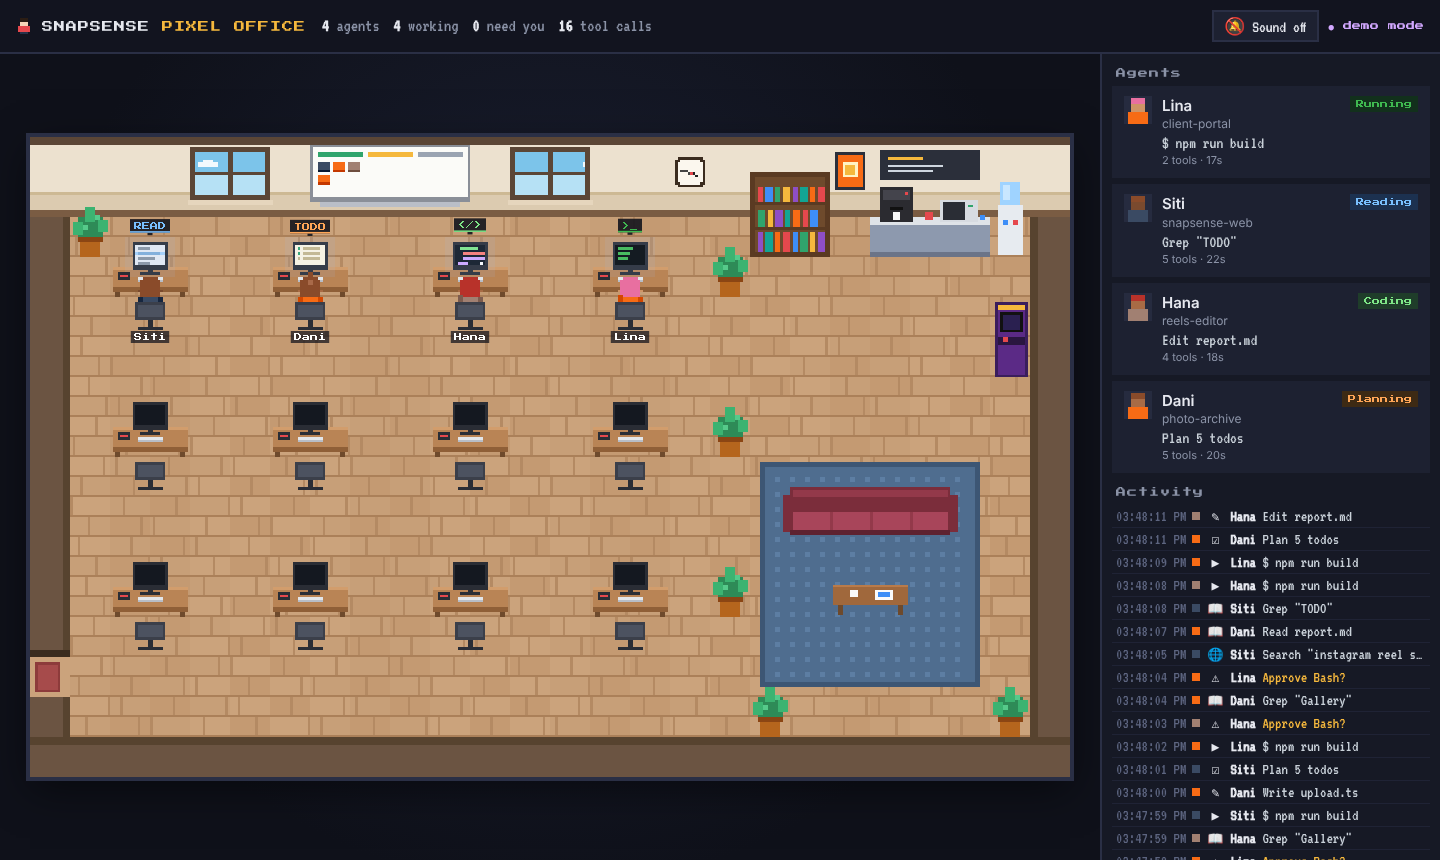
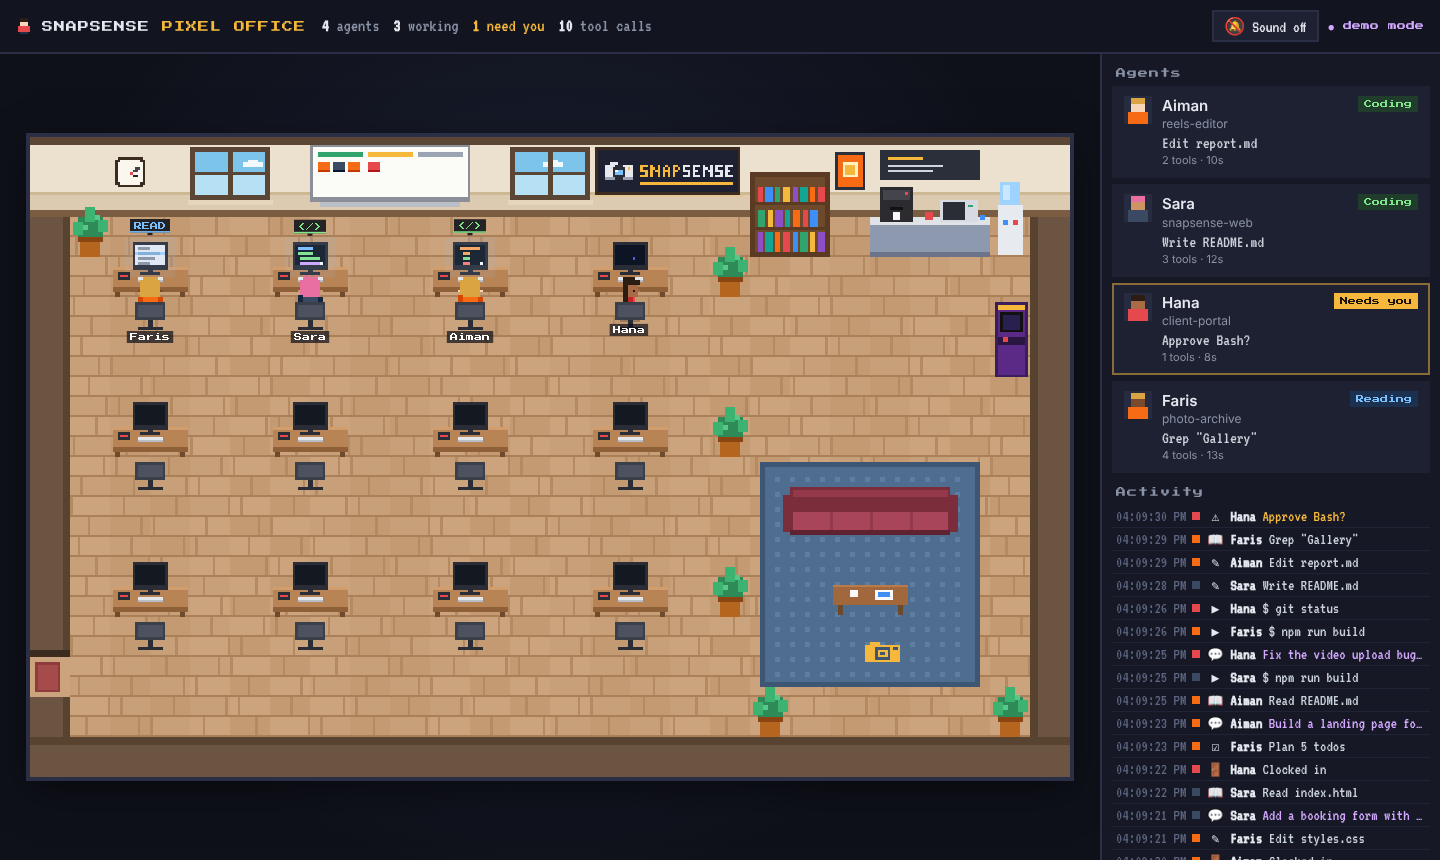
Add SnapSense brand sign to the pixel office
A backlit pixel wall sign with a camera icon (its flash fires every few
seconds) and a camera emblem on the lounge rug. Dropping public/logo.png
replaces the built-in sign; the server reports the logo in the snapshot
and /api/state so the client never requests a missing file.

Claude-Session: https://claude.ai/code/session_01QVWsLVmBcaAnQnZhByugNu

diff --git a/public/world.js b/public/world.js
@@ -115,7 +115,13 @@
     r(18 * T + 4, 8 * T + 2, 6 * T - 8, 6 * T - 6, '#3d5674');
     r(18 * T + 6, 8 * T + 4, 6 * T - 12, 6 * T - 10, '#4f6d8f');
     for (let y = 8 * T + 8; y < 14 * T - 6; y += 6) for (let x = 18 * T + 10; x < 24 * T - 8; x += 6) r(x, y, 2, 2, '#5d7ea3');
-    // work-area carpet strips under desks rows
+    // SnapSense camera emblem woven into the rug
+    {
+      const ex = 21 * T - 2, ey = 13 * T - 6;
+      r(ex + 2, ey, 4, 1, '#f5b83d'); r(ex, ey + 1, 14, 7, '#f5b83d');
+      r(ex + 4, ey + 2, 6, 5, '#3d5674'); r(ex + 5, ey + 3, 4, 3, '#f5b83d'); r(ex + 6, ey + 4, 2, 1, '#3d5674');
+      r(ex + 11, ey + 2, 2, 1, '#3d5674');
+    }
     // top wall
     r(0, 0, W, 32, '#ece1cf');
     r(0, 0, W, 3, '#5b4636');
@@ -163,6 +169,59 @@
     }
     g.fillStyle = '#5b4636'; g.fillRect(x + 15, 6, 2, 17); g.fillRect(x + 2, 14, 28, 1);
     g.fillStyle = '#e6d6bd'; g.fillRect(x - 1, 25, 34, 2);
+  }
+
+  // ---- SnapSense brand ---------------------------------------------------------
+  // Drop a logo at public/logo.png to replace the built-in pixel sign.
+  const FONT = {
+    S: ['###', '#..', '###', '..#', '###'], N: ['#..#', '##.#', '#.##', '#..#', '#..#'],
+    A: ['.#.', '#.#', '###', '#.#', '#.#'], P: ['##.', '#.#', '##.', '#..', '#..'],
+    E: ['###', '#..', '##.', '#..', '###'],
+  };
+  const logoImg = new Image();
+  let logoReady = false;
+  logoImg.onload = () => { logoReady = logoImg.naturalWidth > 0; };
+  function setLogo(url) { if (url && logoImg.src !== url) logoImg.src = url; }
+
+  function pixelText(g, text, x, y, color) {
+    g.fillStyle = color;
+    for (const ch of text) {
+      (FONT[ch] || []).forEach((row, j) => {
+        for (let i = 0; i < row.length; i++) if (row[i] === '#') g.fillRect(x + i, y + j, 1, 1);
+      });
+      x += (FONT[ch] ? FONT[ch][0].length : 3) + 1;
+    }
+    return x;
+  }
+
+  function drawCamera(g, x, y, flash) {
+    g.fillStyle = '#e6e8ef'; g.fillRect(x + 2, y, 3, 1); g.fillRect(x, y + 1, 11, 6);
+    g.fillStyle = '#9aa4b2'; g.fillRect(x, y + 6, 11, 1);
+    g.fillStyle = '#2a2d35'; g.fillRect(x + 3, y + 2, 5, 4); g.fillRect(x + 4, y + 1, 3, 6);
+    g.fillStyle = '#79c0ff'; g.fillRect(x + 4, y + 3, 3, 2);
+    g.fillStyle = '#ffffff'; g.fillRect(x + 4, y + 3, 1, 1);
+    g.fillStyle = flash ? '#fff6c9' : '#f5b83d'; g.fillRect(x + 9, y + 2, 1, 1);
+  }
+
+  // Backlit wall sign; the camera flash fires every few seconds.
+  function drawBrandSign(g, x, t) {
+    const w = 58, y = 4, h = 19;
+    const flash = (t % 7) < 0.12;
+    g.fillStyle = '#3b2c1f'; g.fillRect(x, y, w, h);
+    g.fillStyle = '#1d2131'; g.fillRect(x + 1, y + 1, w - 2, h - 2);
+    g.fillStyle = 'rgba(245,184,61,0.25)'; g.fillRect(x - 1, y + h, w + 2, 1);
+    if (logoReady) {
+      const k = Math.min((w - 4) / logoImg.naturalWidth, (h - 4) / logoImg.naturalHeight);
+      const lw = Math.round(logoImg.naturalWidth * k), lh = Math.round(logoImg.naturalHeight * k);
+      g.imageSmoothingEnabled = false;
+      g.drawImage(logoImg, x + Math.round((w - lw) / 2), y + Math.round((h - lh) / 2), lw, lh);
+      return false;
+    }
+    drawCamera(g, x + 4, y + 6, flash);
+    const tx = pixelText(g, 'SNAP', x + 18, y + 7, '#f5b83d');
+    pixelText(g, 'SENSE', tx, y + 7, '#e6e8ef');
+    g.fillStyle = '#f5b83d'; g.fillRect(x + 18, y + 14, 37, 1);
+    return flash;
   }
 
   function drawClock(g, cx, cy, now) {
@@ -496,7 +555,8 @@
     drawWindow(g, 4 * T, t, now);
     drawWindow(g, 12 * T, t, now);
     drawWhiteboard(g, 7 * T, sims);
-    drawClock(g, 16 * T + 8, 14, now);
+    drawClock(g, 2 * T + 8, 14, now);
+    const flash = drawBrandSign(g, 14 * T + 2, t);
 
     const at = (name) => [...sims.values()].some((s) => s.atTarget && s.spot && s.spot.name.startsWith(name) && !WORK.has(s.data.status));
     const items = [];
@@ -530,6 +590,8 @@
       } });
     }
     items.sort((a, b) => a.y - b.y).forEach((it) => it.draw());
+
+    if (flash) { g.fillStyle = 'rgba(255,250,230,0.07)'; g.fillRect(0, 0, W, H); }
 
     // night tint
     const hr = now.getHours();
@@ -654,7 +716,7 @@
   }
 
   PO.world = {
-    init, upsert, remove, reset, select,
+    init, upsert, remove, reset, select, setLogo,
     look: (id) => (sims.get(id) ? sims.get(id).look : lookFor(id)),
     get selected() { return selectedId; },
   };

diff --git a/server.js b/server.js
@@ -83,12 +83,15 @@ function serveStatic(req, res) {
   });
 }
 
+// Optional brand logo shown on the office wall sign.
+const logoUrl = () => (fs.existsSync(path.join(PUBLIC, 'logo.png')) ? 'logo.png' : null);
+
 const server = http.createServer((req, res) => {
   const url = new URL(req.url, 'http://x');
 
   if (url.pathname === '/events') {
     res.writeHead(200, { 'Content-Type': 'text/event-stream', 'Cache-Control': 'no-cache', Connection: 'keep-alive' });
-    res.write(`data: ${JSON.stringify({ type: 'snapshot', demo: DEMO, ...state.snapshot() })}\n\n`);
+    res.write(`data: ${JSON.stringify({ type: 'snapshot', demo: DEMO, logo: logoUrl(), ...state.snapshot() })}\n\n`);
     clients.add(res);
     const ping = setInterval(() => res.write(': ping\n\n'), 20000);
     req.on('close', () => { clearInterval(ping); clients.delete(res); });
@@ -97,7 +100,7 @@ const server = http.createServer((req, res) => {
 
   if (url.pathname === '/api/state') {
     res.writeHead(200, { 'Content-Type': 'application/json' });
-    return res.end(JSON.stringify({ demo: DEMO, ...state.snapshot() }));
+    return res.end(JSON.stringify({ demo: DEMO, logo: logoUrl(), ...state.snapshot() }));
   }
 
   if (url.pathname === '/hook' && req.method === 'POST') {

diff --git a/public/app.js b/public/app.js
@@ -23,6 +23,7 @@
     switch (msg.type) {
       case 'snapshot':
         agents.clear(); log.length = 0; PO.world.reset();
+        if (msg.logo) PO.world.setLogo(msg.logo);
         msg.agents.forEach((a) => { agents.set(a.id, a); PO.world.upsert(a, { instant: true }); });
         log.push(...msg.log);
         break;
@@ -50,6 +51,10 @@
     $('conn').textContent = '● demo mode';
     $('conn').className = 'conn demo';
     PO.demo.start(handle);
+    // demo recordings should still show your own logo when the server has one
+    if (location.protocol.startsWith('http') && !window.PO_FORCE_DEMO) {
+      fetch('api/state').then((r) => r.json()).then((j) => PO.world.setLogo(j.logo)).catch(() => {});
+    }
   }
 
   const params = new URLSearchParams(location.search);

diff --git a/README.md b/README.md
@@ -18,6 +18,7 @@
 | 👥 **Sub-agent** | Bila Claude guna `Task`/`Agent`, seorang "intern" masuk pejabat, duduk berdekatan, dan keluar bila siap. |
 | ☕ **Rehat** | Agent yang idle pergi ke mesin kopi, sofa, rak buku, mesin arcade atau tingkap. |
 | 📋 **Papan Kanban** | Whiteboard di dinding tunjuk sticky note setiap agent: Bekerja / Tunggu / Idle. |
+| 📸 **Papan tanda SnapSense** | Logo kamera pixel di dinding (flash berkelip!) dan emblem pada karpet lounge — atau guna logo anda sendiri. |
 | 🌗 **Siang & malam** | Tingkap & jam dinding ikut waktu sebenar anda. |
 | 🎬 **Mod demo** | Agent simulasi — sesuai untuk rakam video/reels tanpa perlu Claude berjalan. |
 | 🔒 **Lokal & selamat** | Hanya baca transcript (read-only), server bind ke `127.0.0.1` sahaja. Tiada data keluar dari komputer anda. |
@@ -103,6 +104,7 @@ test/                node --test
 
 ## 🎨 Ubah suai / Customise
 
+- **Logo anda sendiri** — letak fail `public/logo.png` (PNG lutsinar, nisbah lebar ~3:1, contoh 54×15 px atau lebih besar). Ia menggantikan papan tanda pixel SNAPSENSE di dinding secara automatik (mod live & demo). Tanpa fail itu, papan tanda kamera pixel terbina digunakan.
 - **Nama watak** — `NAMES` dalam `public/sprites.js`
 - **Warna baju/rambut** — `SHIRT`, `HAIR`, `SKIN` dalam `public/sprites.js`
 - **Susun atur pejabat** — `desks`, `plants`, `SPOTS` dalam `public/world.js` (grid 26×16, tile 16px)
